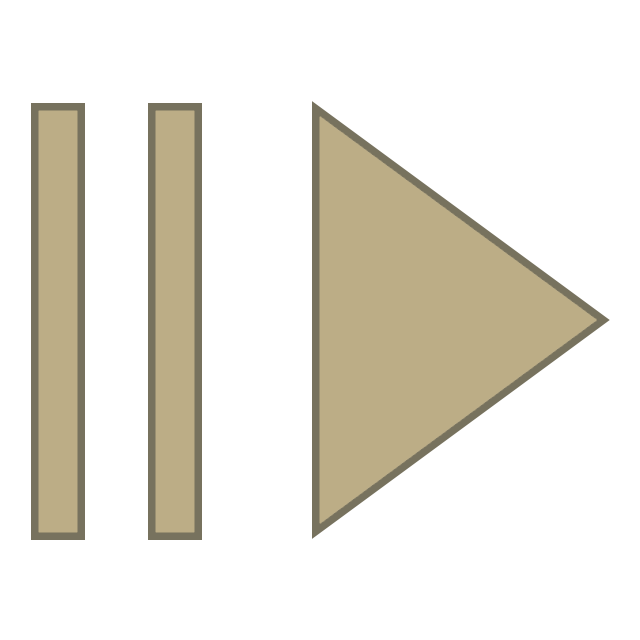
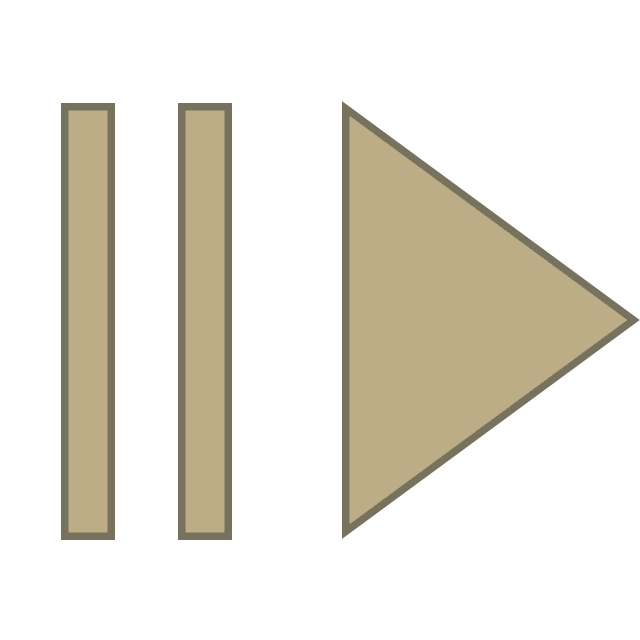
placeholder

Changed region(s): [[0.4688, 0.1562, 1.0, 0.8438], [0.2188, 0.1562, 0.375, 0.8438], [0.0312, 0.1562, 0.1875, 0.8438]]

diff --git a/minami/rsc/general/scripts.js b/minami/rsc/general/scripts.js
@@ -6,6 +6,7 @@
 
 const CURRENT_NODE_SELECTOR = ".current";
 
+const HOTKEY_FOCUS_FILTER = "NumpadDivide";
 const HOTKEY_COPY_CONTROL = true;
 const HOTKEY_COPY_COMPLETE = "KeyC";
 const HOTKEY_COPY_CLEAN = "KeyX";
@@ -64,6 +65,12 @@ class Current {
             // bail if filter input is involved
             if (this.filter.node && event.target === this.filter.node) {
                 return;
+            }
+            
+            // focus filter
+            if (event.code === HOTKEY_FOCUS_FILTER) {
+                this.filter?.focus();
+                return event.preventDefault();
             }
             
             // copy text to clipboard
@@ -130,6 +137,8 @@ class Filter {
         });
         
     }
+    
+    focus = () => this.node.focus();
     
     apply = (entries) => {
         

diff --git a/minami/rsc/general/styles.css b/minami/rsc/general/styles.css
@@ -12,7 +12,8 @@
     
     --entry-hovered-color: var(--secondary-color);
     --entry-selected-color: var(--accent-color);
-    --entry-hovered-selected-color: color-mix(in srgb, var(--accent-color) 50%, var(--secondary-color));
+    --entry-hovered-selected-color: color-mix(in srgb, var(--accent-color) 75%, var(--secondary-color));
+    --entry-unfocused-selected-color: color-mix(in srgb, var(--accent-color) 50%, var(--secondary-color));
     
     --transition-duration: 0.25s;
     
@@ -62,7 +63,7 @@ iframe {
     }
     
     &:not(:focus-within) {
-        --entry-selected-color: var(--secondary-color);
+        --entry-selected-color: var(--entry-unfocused-selected-color);
     }
     
 }

diff --git a/aoi/rsc/index.html b/aoi/rsc/index.html
@@ -34,7 +34,7 @@
                 
                 /* play / pause */
                 
-                &::nth-of-type(1) {
+                &:nth-of-type(1) {
                     grid-column-start: 1;
                     grid-column-end: 3;
                     color: red;

diff --git a/aoi/src/main.rs b/aoi/src/main.rs
@@ -8,6 +8,7 @@ use ayano::{ Server, Request, StatusCode, ContentType, CacheControl };
 const APP_NAME: &str = env!("CARGO_PKG_NAME");
 const APP_VERSION: &str = env!("CARGO_PKG_VERSION");
 
+const FAVICON: &[u8] = include_bytes!("../rsc/favicon.ico");
 const INDEX: &[u8] = include_bytes!("../rsc/index.html");
 
 fn main() {
@@ -50,6 +51,17 @@ fn handle_request(request: &mut Request) -> Result<(), Box<dyn Error>> {
         .ok_or("Invalid request")?;
     
     if method == b"GET" {
+        
+        // -------------------- favicon --------------------
+        
+        if path == b"/favicon.ico" {
+            
+            request.start_response(StatusCode::Ok, ContentType::Icon, CacheControl::Static)
+                .and_then(|mut response| response.write_all(FAVICON))?;
+            
+            return Ok(());
+            
+        }
         
         // -------------------- index --------------------
         

diff --git a/ayano/src/lib.rs b/ayano/src/lib.rs
@@ -89,7 +89,10 @@ impl Iterator for Server {
     type Item = io::Result<Request>;
     
     fn next(&mut self) -> Option<Self::Item> {
-        Some(self.listener.accept().and_then(|(stream, _)| Request::new(stream)))
+        let request = self.listener.accept()
+            .and_then(|(stream, _)| Request::new(stream));
+        
+        Some(request)
     }
     
 }

diff --git a/ayano/src/request.rs b/ayano/src/request.rs
@@ -5,7 +5,7 @@ use std::{
 };
 
 use super::{
-    STREAM_TIMEOUT, REQUEST_SIZE_LIMIT, CONNECTION_BUFFER_SIZE,
+    REQUEST_SIZE_LIMIT, CONNECTION_BUFFER_SIZE, STREAM_TIMEOUT,
     StatusCode, ContentType, CacheControl, Response,
 };
 

diff --git a/chikuwa/src/named_pipe.rs b/chikuwa/src/named_pipe.rs
@@ -58,6 +58,7 @@ impl NamedPipe {
 impl Write for NamedPipe {
     
     fn write(&mut self, buf: &[u8]) -> io::Result<usize> {
+        // no timeout
         self.handle.write(buf)
     }
     

diff --git a/ayano/src/response.rs b/ayano/src/response.rs
@@ -4,7 +4,7 @@ use std::{
 };
 
 use super::{
-    STREAM_TIMEOUT, CONNECTION_BUFFER_SIZE,
+    CONNECTION_BUFFER_SIZE, STREAM_TIMEOUT,
     StatusCode, ContentType, CacheControl,
 };
 

diff --git a/ayano/README.md b/ayano/README.md
@@ -8,8 +8,6 @@ The `Server` struct provides access to `Request` elements via the "Iterator" tra
 
 Each `Request` has a size limit of 512 KiB, and can be used to spawn one and only one `Response`.
 
-The timeouts for send and recieve are each set at 5 seconds.
-
 ## API
 
 * `Server`

diff --git a/akari/README.md b/akari/README.md
@@ -8,8 +8,6 @@ The `Client` struct provides access to `Response` elements via the "get" method.
 
 Connections will be pooled for reuse.
 
-The timeouts for resolution, connection, send and recieve are each set at 15 seconds.
-
 ## API
 
 * `Client`
